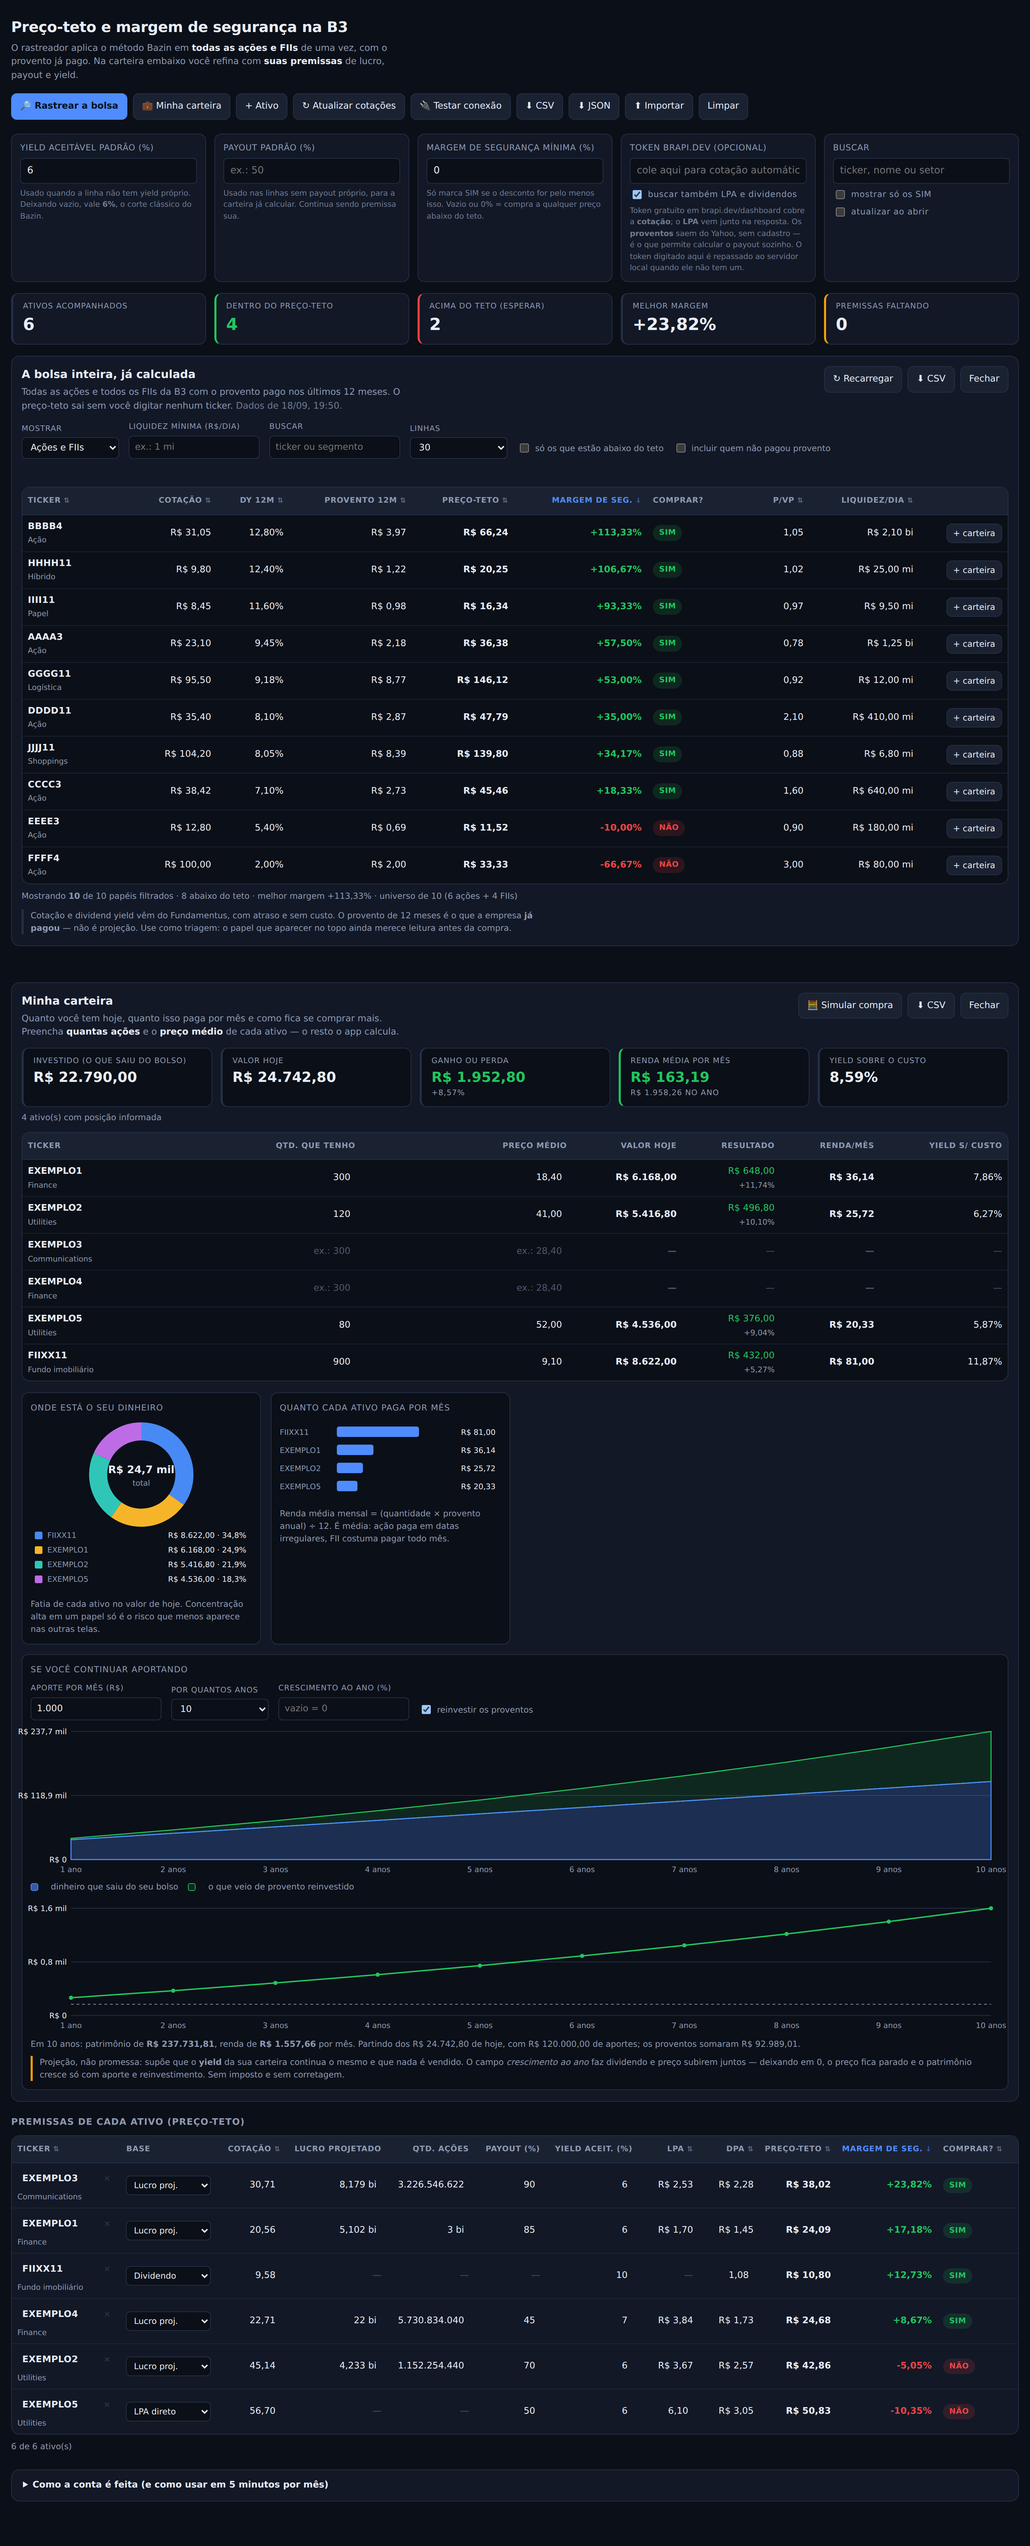
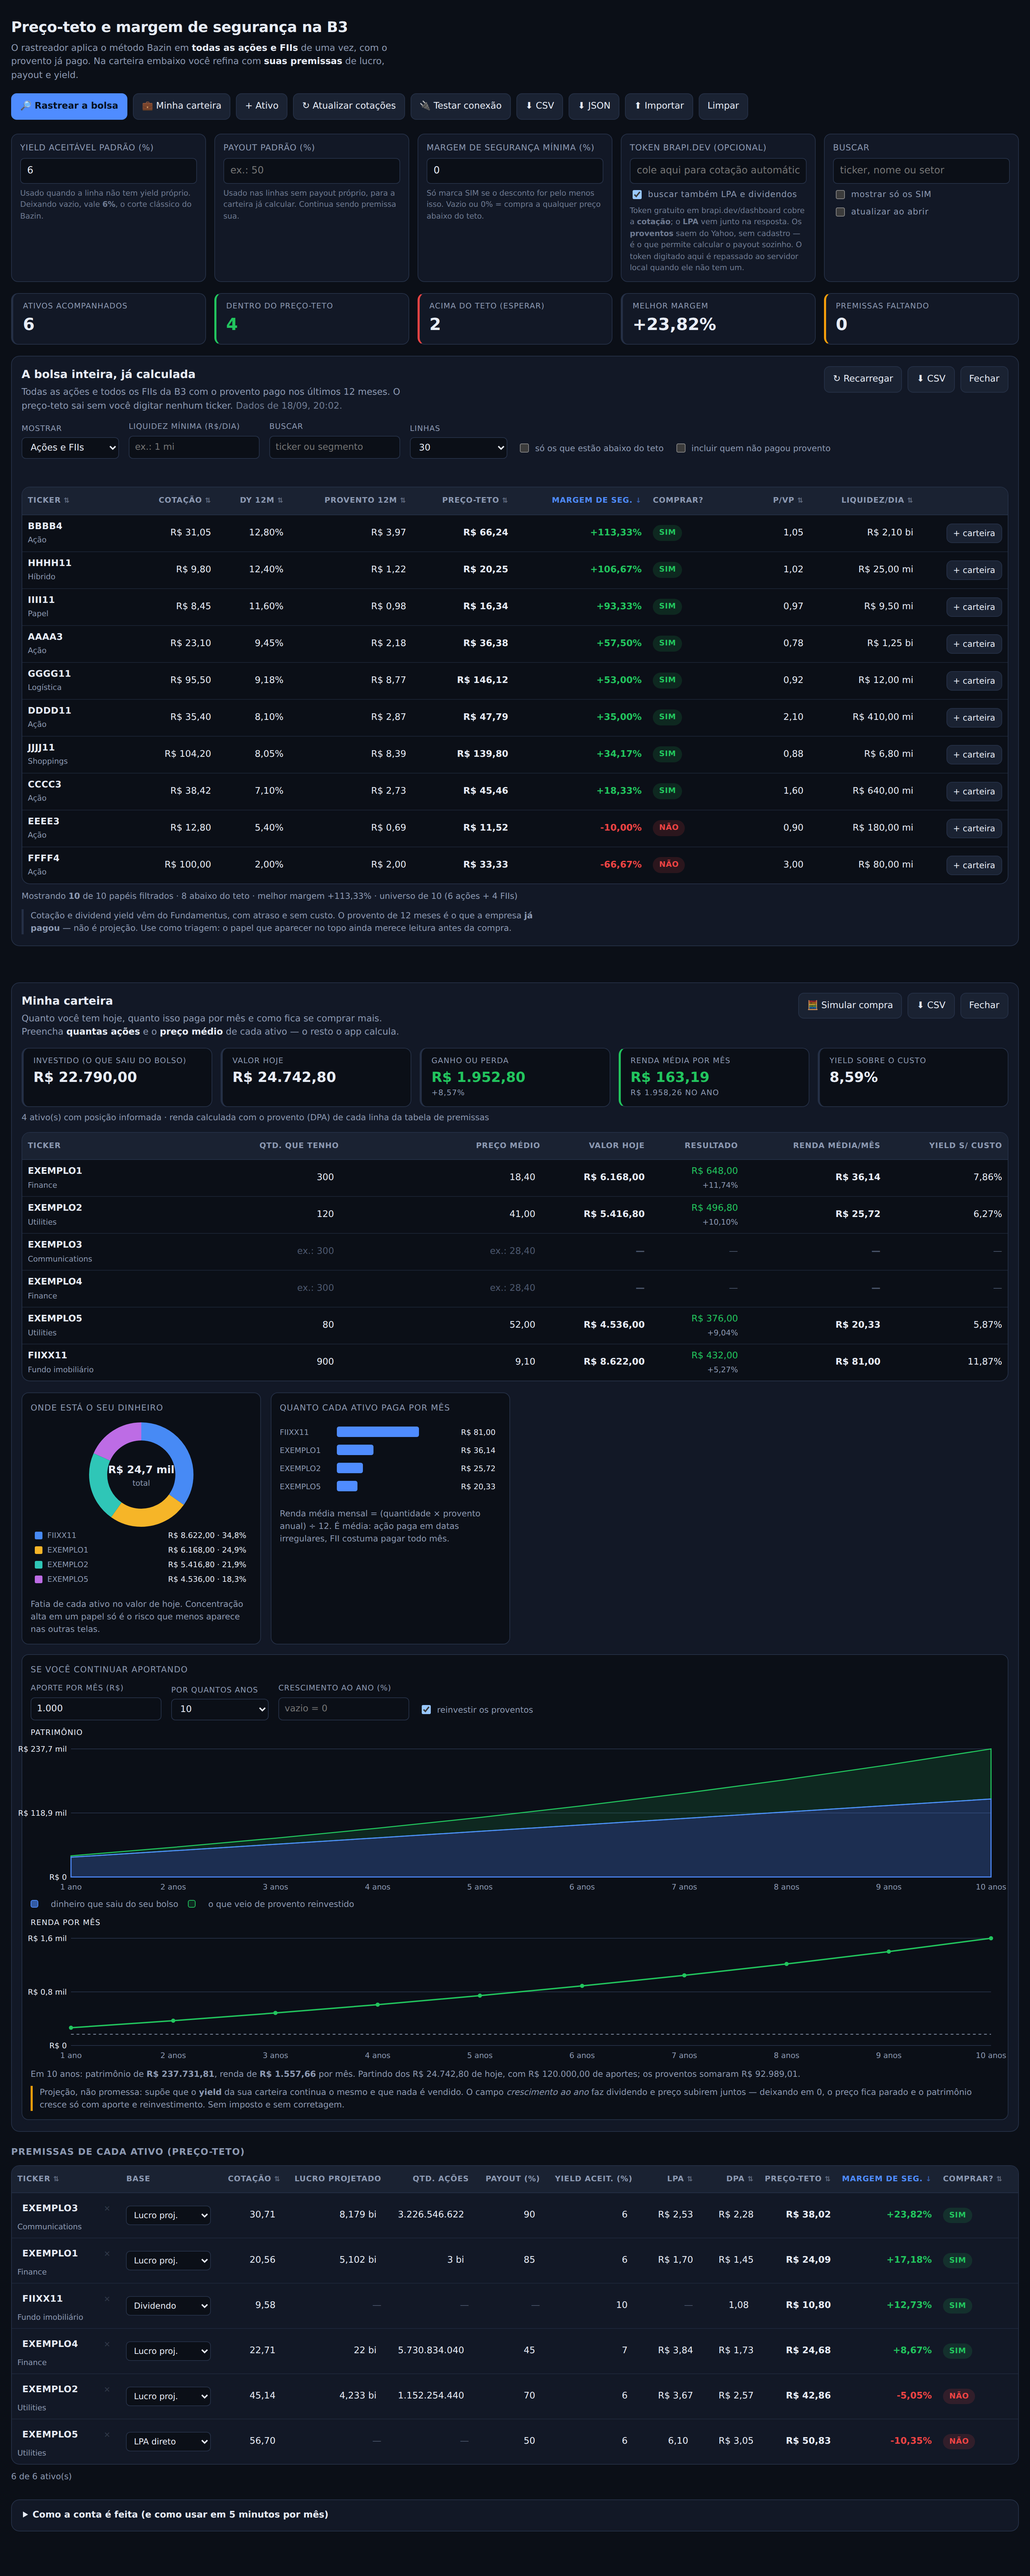
Conserta o app que não abria com dado salvo ilegível, e mais quatro achados
O pior era regressão minha, introduzida junto com o aviso de estado corrompido:
`carregar()` grava em `avisoDeCarregamento`, mas a variável era declarada DEPOIS
da linha que chama `carregar()`. Com o localStorage ilegível, o acesso caía na
zona morta do `let`, o script inteiro morria e a página não abria — exatamente
no caso que o aviso existia para tratar. Agora a declaração vem antes, e há
teste de navegador cobrindo: com dado corrompido o app abre, explica e guarda
uma cópia do original.

Também:
- Navegador que não consegue salvar (memória cheia, navegação privativa) deixava
  a tela mostrando números como se estivessem guardados; some tudo no próximo
  recarregamento. Agora avisa uma vez e sugere exportar o JSON.
- No celular a célula dizia "Renda por mês" enquanto o cartão e a legenda diziam
  "renda MÉDIA" — virou "Renda média/mês" também na tabela.
- Os dois gráficos da projeção dividiam o mesmo cartão sem rótulo: não dava para
  saber qual era patrimônio e qual era renda.
- A nota dos totais passa a dizer que a renda sai do provento (DPA) da tabela de
  premissas — é o que explica a renda mudar quando se mexe no payout padrão.

Testes: 324 no node, 173 no navegador.

Claude-Session: https://claude.ai/code/session_017AhskhMrFGTcoZYypaDFch

diff --git a/assets/app.js b/assets/app.js
@@ -14,6 +14,11 @@
   const el = (sel) => document.querySelector(sel);
   const novoId = () => `a${Date.now().toString(36)}${Math.random().toString(36).slice(2, 7)}`;
 
+  // Precisa existir ANTES de carregar(): a função grava aqui o aviso, e carregar()
+  // é chamada logo abaixo. Declarar depois fazia o app não abrir (ReferenceError)
+  // justamente no caso que este aviso existe para tratar: dado salvo ilegível.
+  let avisoDeCarregamento = null;
+
   let estado = carregar();
 
   // ---------------------------------------------------------------- persistência
@@ -21,8 +26,6 @@
   // Quando o dado salvo não pode ser lido, a carteira do usuário sumia e era
   // substituída pela lista de exemplo — que o primeiro salvamento gravava por cima.
   // Agora o original é preservado em outra chave e a tela avisa.
-  let avisoDeCarregamento = null;
-
   function carregar() {
     let bruto = null;
     try {
@@ -59,11 +62,21 @@
     }
   }
 
+  let jaAvisouFalhaAoSalvar = false;
+
   function salvar() {
     try {
       localStorage.setItem(CHAVE_STORAGE, JSON.stringify(estado));
+      jaAvisouFalhaAoSalvar = false;
     } catch (erro) {
       console.warn('Não foi possível salvar:', erro);
+      // Uma vez por falha, não a cada tecla: a tela mostrava os números como se
+      // estivessem guardados e tudo sumia no recarregamento seguinte.
+      if (!jaAvisouFalhaAoSalvar) {
+        jaAvisouFalhaAoSalvar = true;
+        status('O navegador não está guardando as alterações (memória cheia ou navegação privativa). Exporte em JSON para não perder o que você digitou.',
+          'erro', [erro.message]);
+      }
     }
   }
 
@@ -759,7 +772,7 @@
     { rotulo: 'Preço médio', num: true },
     { rotulo: 'Valor hoje', num: true },
     { rotulo: 'Resultado', num: true },
-    { rotulo: 'Renda/mês', num: true },
+    { rotulo: 'Renda média/mês', num: true },
     { rotulo: 'Yield s/ custo', num: true },
   ];
   const COLUNA_SIMULACAO = { rotulo: 'Simular ±', num: true };
@@ -809,7 +822,7 @@
         <td data-rotulo="Preço médio" class="num">${inputCelula(ativo, 'precoMedio', 'placeholder="ex.: 28,40"')}${alerta('precoMedio')}</td>
         <td data-rotulo="Valor hoje" class="num forte" data-saida="valorAtual">${fmtMoeda(m.valorAtual)}</td>
         <td data-rotulo="Resultado" class="num ${classeResultado(m.resultado)}" data-saida="resultado">${celulaResultado(m)}</td>
-        <td data-rotulo="Renda por mês" class="num forte" data-saida="rendaMensal">${fmtMoeda(m.rendaMensal)}</td>
+        <td data-rotulo="Renda média por mês" class="num forte" data-saida="rendaMensal">${fmtMoeda(m.rendaMensal)}</td>
         <td data-rotulo="Yield sobre o custo" class="num" data-saida="yieldOnCost">${fmtTaxa(m.yieldOnCost)}</td>
         ${simulacao}
       </tr>`;
@@ -832,7 +845,8 @@
     if (!c.ativos) {
       return 'Nenhuma posição informada ainda. Preencha <strong>Qtd. que tenho</strong> (e o preço médio, se lembrar) para ver o quanto a carteira vale e quanto ela paga por mês.';
     }
-    const partes = [`${c.ativos} ativo(s) com posição informada`];
+    const partes = [`${c.ativos} ativo(s) com posição informada`,
+      'renda calculada com o provento (DPA) de cada linha da tabela de premissas'];
     if (c.semPrecoMedio) partes.push(`${c.semPrecoMedio} sem preço médio (fora do ganho/perda e do yield sobre o custo)`);
     if (c.semCotacao) partes.push(`${c.semCotacao} sem cotação (clique em “Atualizar cotações”)`);
     if (c.semProvento) partes.push(`${c.semProvento} sem provento definido (não entra na renda)`);

diff --git a/index.html b/index.html
@@ -164,8 +164,10 @@
         </label>
         <span class="check"><input type="checkbox" id="p-reinvestir" checked> reinvestir os proventos</span>
       </div>
+      <p class="titulo-grafico">Patrimônio</p>
       <div id="g-patrimonio" class="tela-grafico"></div>
       <p class="legenda-grafico"><span class="chave aportado"></span> dinheiro que saiu do seu bolso <span class="chave reinvestido"></span> o que veio de provento reinvestido</p>
+      <p class="titulo-grafico">Renda por mês</p>
       <div id="g-renda-futura" class="tela-grafico"></div>
       <p id="projecao-resumo" class="legenda"></p>
       <p class="legenda aviso">Projeção, não promessa: supõe que o <strong>yield</strong> da sua carteira continua o mesmo e que nada é vendido. O campo <em>crescimento ao ano</em> faz dividendo e preço subirem juntos — deixando em 0, o preço fica parado e o patrimônio cresce só com aporte e reinvestimento. Sem imposto e sem corretagem.</p>

diff --git a/assets/styles.css b/assets/styles.css
@@ -468,6 +468,9 @@ tbody tr:hover .remover, .remover:focus-visible { opacity: 1; }
 .tela-grafico svg line.grade { stroke: var(--borda); stroke-width: 1; }
 .tela-grafico svg line.referencia { stroke: var(--texto-fraco); stroke-width: 1; }
 .grafico .legenda { margin: 8px 0 0; font-size: 12px; color: var(--texto-fraco); }
+/* Os dois gráficos da projeção dividem o mesmo cartão: sem rótulo, não dava para
+   saber qual linha era patrimônio e qual era renda. */
+.titulo-grafico { margin: 10px 0 2px; font-size: 11px; text-transform: uppercase; letter-spacing: .06em; color: var(--texto); }
 .grafico .legenda.aviso { border-left: 3px solid var(--ambar); padding-left: 10px; }
 .legenda-grafico { margin: 6px 0 10px; font-size: 12px; color: var(--texto-fraco); display: flex; gap: 14px; flex-wrap: wrap; align-items: center; }
 .chave { display: inline-block; width: 11px; height: 11px; border-radius: 3px; vertical-align: -1px; margin-right: 4px; }

diff --git a/README.md b/README.md
@@ -483,8 +483,8 @@ Digite como for mais natural — o app entende formato brasileiro e atalhos de e
 ## Testes
 
 ```bash
-npm test          # 323 testes: cálculo, posição, projeção, gráficos, cotação, servidor e CLI
-npm run test:ui   # 169 verificações de interface com Chromium (precisa de playwright-core)
+npm test          # 324 testes: cálculo, posição, projeção, gráficos, cotação, servidor e CLI
+npm run test:ui   # 173 verificações de interface com Chromium (precisa de playwright-core)
 ```
 
 Os testes de cálculo conferem as linhas da planilha que serviu de referência,
